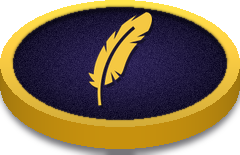
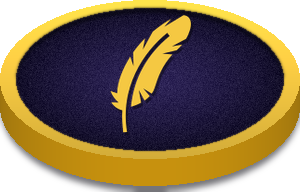
Daily coins: the win's gold coin is 100 pt wide
Pete, 2026-09-26: the gold coin must read as bigger than the others.
- It goes from 80 to 100 pt wide, about 1.6x a silver coin.
- coin_gold.png is now 300 x 192 px.
- The glow is rebuilt to match, at 660 x 365.
- DAILY_FLOOR_COINS.gold mirrors the new size. It still lands on the same
  floor contact line and stays clear of the capstone.

Checked in the browser at 430 and 390 wide: Polly's win bubble on the steps
stays clear of the coin.

Claude-Session: https://claude.ai/code/session_01TxB5WRXMWunrcoTTHjrKMD

diff --git a/app/ui/dailyCastleScene.ts b/app/ui/dailyCastleScene.ts
@@ -206,7 +206,8 @@ export const DAILY_FLOOR_COINS = {
   contactY: 566,
   pitch: 76,
   white: { width: 186 / 3, height: 122 / 3, contactFromTop: (122 - 6) / 3 },
-  gold: { width: 240 / 3, height: 155 / 3, contactFromTop: (155 - 6) / 3 },
+  // coin_gold.png is 300 × 192 px: 100 pt wide, ~1.6× a white coin (Pete, 2026-09-26).
+  gold: { width: 300 / 3, height: 192 / 3, contactFromTop: (192 - 6) / 3 },
 } as const;
 
 /** White coin `index` of `count` (1–4), centred as a row. Canvas points. */

diff --git a/tools/art/build_daily_coins.py b/tools/art/build_daily_coins.py
@@ -11,8 +11,8 @@ silver and gold is kept for the win's coin, whose gold is the brand golds
 feather art (assets/ui/feather-life-filled.png, feather-gold-reward.png),
 standing upright on the face like an emblem.
 
-Output is 3x: white coin 62 x 40 pt -> 186 x 120 px; gold 80 x 52 pt ->
-240 x 156 px. The coin's contact point with the floor is the bottom of the
+Output is 3x: white coin 62 x 40.7 pt -> 186 x 122 px; gold 100 x 64 pt ->
+300 x 192 px. The coin's contact point with the floor is the bottom of the
 edge, at (image height - SHADOW_PAD) — dailyCastleScene mirrors this.
 
 coin_glow.png is the win's soft gold glow behind the gold coin: an ellipse
@@ -138,10 +138,11 @@ def glow(width: int, height: int) -> Image.Image:
 
 def main() -> None:
     white = coin(186, WHITE_FEATHER, 0.74, SILVER_METAL)
-    gold = coin(240, GOLD_FEATHER, 0.74, GOLD_METAL)
+    # 100 pt wide, about 1.6x a white coin (Pete, 2026-09-26).
+    gold = coin(300, GOLD_FEATHER, 0.74, GOLD_METAL)
     white.save(OUT_DIR / "coin_feather.png", optimize=True)
     gold.save(OUT_DIR / "coin_gold.png", optimize=True)
-    halo = glow(528, 294)   # the gold coin (240 x 155) at 2.2 x 1.9
+    halo = glow(660, 365)   # the gold coin (300 x 192) at 2.2 x 1.9
     halo.save(OUT_DIR / "coin_glow.png", optimize=True)
     print("wrote coin_feather.png", white.size, "coin_gold.png", gold.size, "coin_glow.png", halo.size)
 
